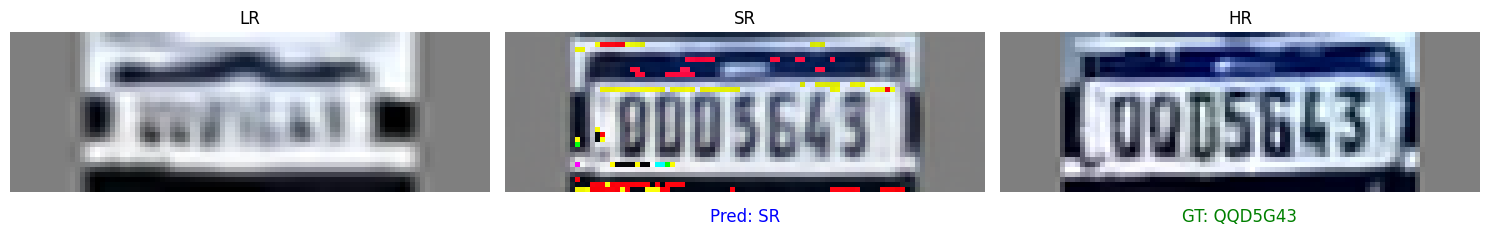
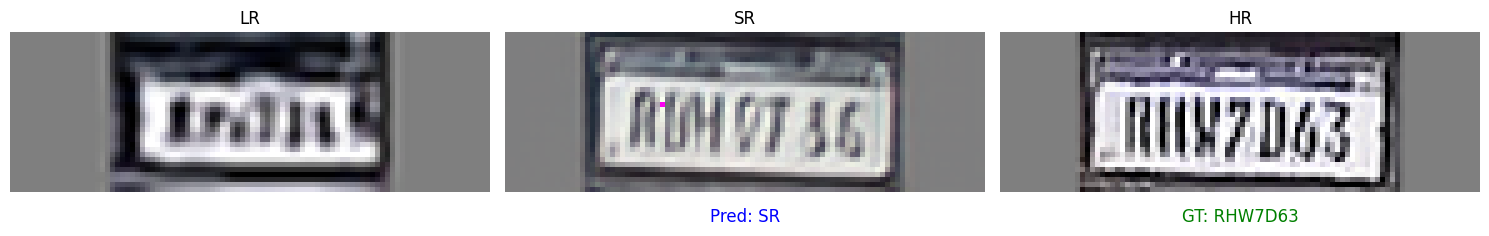
fix lpsrgan_stage2_parseq.png text wrong

diff --git a/train_funcs/train_utils.py b/train_funcs/train_utils.py
@@ -82,7 +82,7 @@ def _get_optimizer_parts(optimizer):
     return optimizer_g, optimizer_d
 
 
-def _maybe_visualize(batch, sr_batch, config, preds=None):
+def _maybe_visualize(batch, sr_batch, config, preds=None, ocr_model=None):
     visualize_interval = config.get('visualize_interval', 0)
     visualize_idx = config.get('visualize_idx', 0)
     current_step = config.get('_loop_step', 0)
@@ -99,8 +99,32 @@ def _maybe_visualize(batch, sr_batch, config, preds=None):
     image2 = transforms.ToPILImage()(sr_batch[visualize_idx].detach().cpu())
     image3 = transforms.ToPILImage()(batch['hr'][visualize_idx].detach().cpu())
     gt_text = batch['gt'][visualize_idx]
-    pred_text = preds[visualize_idx] if preds else 'SR'
-    save_visualized_images(image1, image2, image3, output_path, pred_text, gt_text)
+    lr_text = 'LR'
+    sr_text = preds[visualize_idx] if preds else 'SR'
+
+    if ocr_model is not None:
+        with torch.no_grad():
+            lr_up = F.interpolate(
+                batch['lr'][visualize_idx:visualize_idx + 1].cuda(),
+                size=(sr_batch.size(2), sr_batch.size(3)),
+                mode='bilinear',
+                align_corners=False,
+            )
+            sr_single = sr_batch[visualize_idx:visualize_idx + 1].cuda()
+            lr_eval = ocr_model.predict(lr_up)
+            sr_eval = ocr_model.predict(sr_single)
+            lr_text = lr_eval['texts'][0]
+            sr_text = sr_eval['texts'][0]
+
+    save_visualized_images(
+        image1,
+        image2,
+        image3,
+        output_path,
+        lr_text=lr_text,
+        sr_text=sr_text,
+        gt_text=gt_text,
+    )
 
 
 def _run_generator_loss(loss_fn, sr_batch, batch, loss_adv=None):
@@ -266,7 +290,7 @@ def lpsrgan_pretrain(train_loader, model, optimizer, loss_fn, confusing_pair, *a
         optimizer_g.step()
 
         train_losses.append(metrics['total'])
-        _maybe_visualize(batch, sr_batch, config, preds=preds)
+        _maybe_visualize(batch, sr_batch, config, preds=preds, ocr_model=ocr_model)
         pbar.set_postfix(_format_postfix(metrics))
 
     return sum(train_losses) / len(train_losses)
@@ -316,7 +340,7 @@ def lpsrgan_train(train_loader, model, optimizer, loss_fn, confusing_pair, *args
 
         train_losses.append(metrics['total'])
         d_losses.append(loss_d.detach().item())
-        _maybe_visualize(batch, sr_batch, config, preds=preds)
+        _maybe_visualize(batch, sr_batch, config, preds=preds, ocr_model=ocr_model)
         pbar.set_postfix(_format_postfix(metrics, extra={'d': round(d_losses[-1], 4)}))
 
     return sum(train_losses) / len(train_losses)
@@ -417,7 +441,7 @@ def lpsrgan_val(val_loader, model, loss_fn, confusing_pair, *args):
                     batch, sr_batch, batch_rows, config, saved_visuals
                 )
 
-            _maybe_visualize(batch, sr_batch, config, preds=preds)
+            _maybe_visualize(batch, sr_batch, config, preds=preds, ocr_model=ocr_model)
             postfix_extra = None
             if ocr_model is not None and ocr_sr_scores:
                 postfix_extra = {
